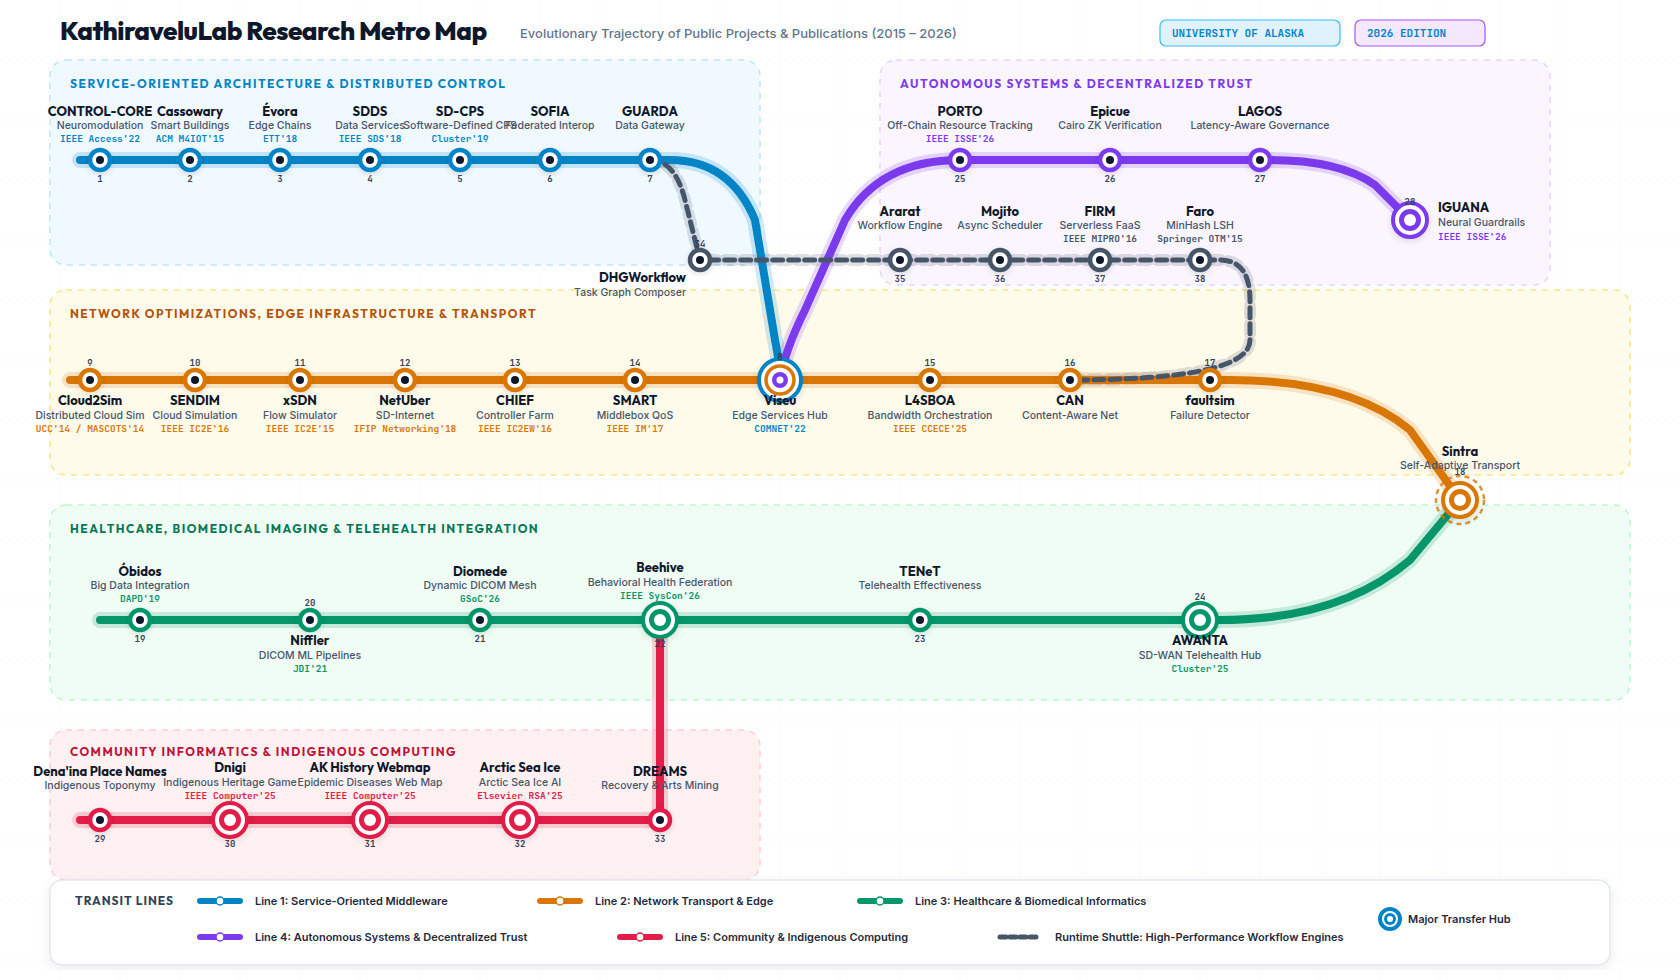
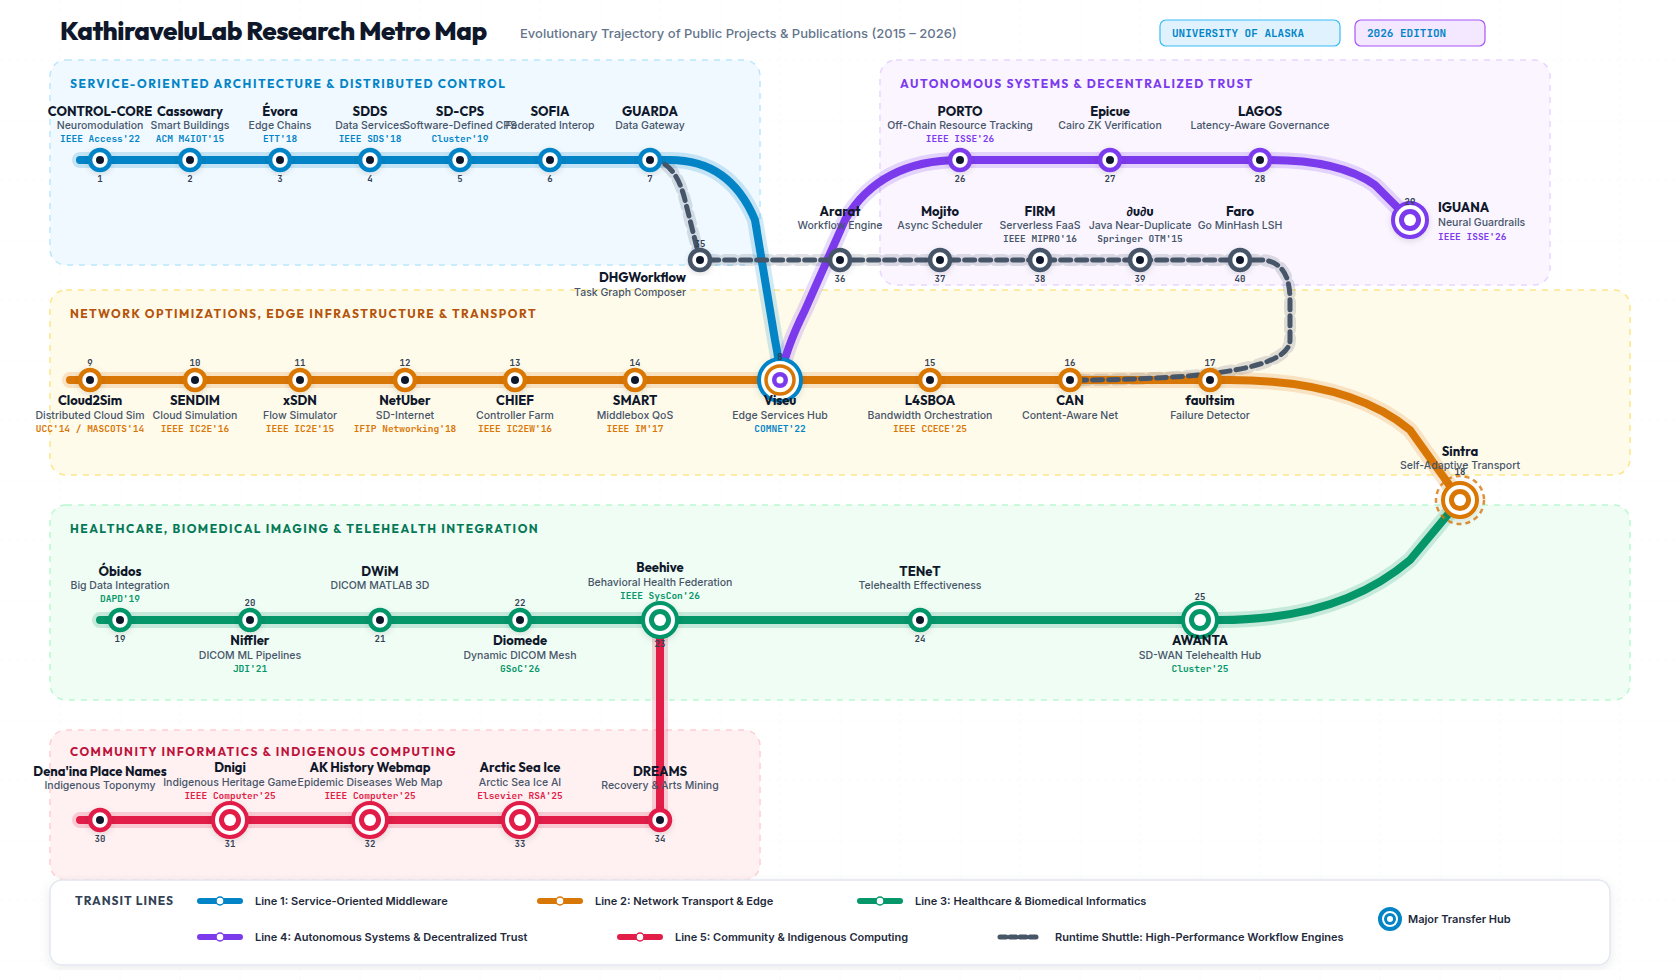
Add DWiM and dudu as standalone stations; expand to 40 stations with full lab repository audit

Changed region(s): [[0.4643, 0.2143, 0.7738, 0.398], [0.1238, 0.5816, 0.3405, 0.6735], [0.031, 0.5816, 0.1238, 0.6735]]

diff --git a/index.html b/index.html
@@ -119,7 +119,7 @@
   <aside class="status-bar" aria-label="Map metadata">
     <div class="status-item">
       <span class="status-dot"></span>
-      <span>38 Stations</span>
+      <span>40 Stations</span>
     </div>
     <div class="status-item">•</div>
     <div class="status-item">

diff --git a/generate-svg.js b/generate-svg.js
@@ -58,6 +58,7 @@ function getStationLayout(station) {
     station.id === "can" || 
     station.id === "faultsim" ||
     station.id === "niffler" ||
+    station.id === "diomede" ||
     station.id === "awanta"
   ) {
     // Labels Below Node

diff --git a/app.js b/app.js
@@ -131,6 +131,7 @@
       station.id === "can" || 
       station.id === "faultsim" ||
       station.id === "niffler" ||
+      station.id === "diomede" ||
       station.id === "awanta"
     ) {
       // Labels Below Node

diff --git a/README.md b/README.md
@@ -8,7 +8,7 @@ An interactive evolutionary transit map tracking how the public research reposit
 
 ## Transit Lines Overview
 
-The metropolitan map organizes **38 flagship research stations** across **5 interconnected transit lines** and **1 high-performance workflow shuttle loop**, reflecting over a decade of research (2014 - 2026):
+The metropolitan map organizes **40 flagship research stations** across **5 interconnected transit lines** and **1 high-performance workflow shuttle loop**, reflecting over a decade of research (2014 - 2026):
 
 | Line | Name | Color | Core Research Focus |
 | :--- | :--- | :---: | :--- |
@@ -24,8 +24,8 @@ The metropolitan map organizes **38 flagship research stations** across **5 inte
 ## Key Transfer Hubs & Interchanges
 
 - **`Viseu` (#8)**: Major triple-interchange bridging **Line 1 (SOA Middleware)**, **Line 2 (Network Optimization)**, and **Line 4 (Autonomous Decentralized Trust)**, connecting edge orchestration directly with Ethereum trust and private off-chain state channels to **`PORTO`**.
-- **`Beehive` (#22)**: Interdisciplinary junction connecting **Line 3 (Clinical Healthcare)** with **Line 5 (Community Informatics)**.
-- **`AWANTA` (#24) & `Sintra` (#18)**: Terminus junction uniting network transport measurements, edge computing, and remote telehealth across satellite/polar links.
+- **`Beehive` (#23)**: Interdisciplinary junction connecting **Line 3 (Clinical Healthcare)** with **Line 5 (Community Informatics)**.
+- **`AWANTA` (#25) & `Sintra` (#18)**: Terminus junction uniting network transport measurements, edge computing, and remote telehealth across satellite/polar links.
 - **`GUARDA` (#7) & `CAN` (#16)**: Fast connection to the **Runtime Shuttle** for high-throughput pipeline dispatching.
 
 ---
@@ -56,31 +56,33 @@ The metropolitan map organizes **38 flagship research stations** across **5 inte
 
 ### Line 3: Healthcare & Biomedical Informatics
 19. **Óbidos** (`Obidos`, `MEDIator`): Hybrid ETL for reproducible biomedical science (*Springer DAPD'19*, *VLDB DMAH'17*, *ACM BigCHat (KDD)'15*).
-20. **Niffler** (`Niffler`, `DWiM`, `MRIQC`): High-throughput DICOM machine learning pipelines (*Springer JDI'21*, *IEEE Access'21*, *IEEE Computer'22*).
-21. **Diomede** (`Diomede`): Dynamic DICOM endpoint routing mesh and telemedicine toolkit across regional cloud PACS nodes.
-22. **Beehive** (`Beehive`): Behavioral health data framework with digitized drawings and photographs (*IEEE SysCon'26*).
-23. **TENeT** (`TENeT`): Telehealth necessity and clinical outcome tracker.
-24. **AWANTA** (`AWANTA`): SD-WAN for remote telehealth measurements (*Springer Cluster'25*, *IEEE SDS'23*).
+20. **Niffler** (`Niffler`, `MRIQC`): High-throughput DICOM machine learning pipelines (*Springer JDI'21*, *IEEE Access'21*, *IEEE Computer'22*).
+21. **DWiM** (`DWiM`): Automated DICOM 3D volume assembly, slice sorting, and isotropic resampling in MATLAB.
+22. **Diomede** (`Diomede`): Dynamic DICOM endpoint routing mesh and telemedicine toolkit across regional cloud PACS nodes.
+23. **Beehive** (`Beehive`): Behavioral health data framework with digitized drawings and photographs (*IEEE SysCon'26*).
+24. **TENeT** (`TENeT`): Telehealth necessity and clinical outcome tracker.
+25. **AWANTA** (`AWANTA`): SD-WAN for remote telehealth measurements (*Springer Cluster'25*, *IEEE SDS'23*).
 
 ### Line 4: Autonomous Systems & Decentralized Trust
-25. **PORTO** (`PORTO`): Private off-chain resource tracking and orchestration (*IEEE ISSE'26*).
-26. **Epicue** (`Epicue`): Zero-knowledge computational integrity with Cairo STARKs in untrusted cloud environments.
-27. **LAGOS** (`LAGOS`): Latency-aware accountable overlay governance in Gleam.
-28. **IGUANA** (`IGUANA`): Integrated guardrails for unbiased, adaptive neural network architectures (*IEEE ISSE'26*).
+26. **PORTO** (`PORTO`): Private off-chain resource tracking and orchestration (*IEEE ISSE'26*).
+27. **Epicue** (`Epicue`): Zero-knowledge computational integrity with Cairo STARKs in untrusted cloud environments.
+28. **LAGOS** (`LAGOS`): Latency-aware accountable overlay governance in Gleam.
+29. **IGUANA** (`IGUANA`): Integrated guardrails for unbiased, adaptive neural network architectures (*IEEE ISSE'26*).
 
 ### Line 5: Community Informatics & Circumpolar Computing
-29. **Dena'ina Place Names** (`denaina-place-names`): Interactive digital atlas honoring Dena'ina Athabascan toponymy.
-30. **Dnigi** (`Dnigi`): Serious game for Indigenous cultural heritage transmission (*IEEE Computer'25*).
-31. **AK History Webmap** (`ak-history-webmap`): Interactive Alaska Native history web map for epidemic disease outbreaks (*IEEE Computer'25*).
-32. **Arctic Sea Ice** (`DIP_Predicting_SIE`): Circumpolar satellite image processing and sea ice extent prediction (*Elsevier Remote Sensing Applications'25*).
-33. **DREAMS** (`DREAMS`): Digitization for recovery and arts mining for societal well-being.
+30. **Dena'ina Place Names** (`denaina-place-names`): Interactive digital atlas honoring Dena'ina Athabascan toponymy.
+31. **Dnigi** (`Dnigi`): Serious game for Indigenous cultural heritage transmission (*IEEE Computer'25*).
+32. **AK History Webmap** (`ak-history-webmap`): Interactive Alaska Native history web map for epidemic disease outbreaks (*IEEE Computer'25*).
+33. **Arctic Sea Ice** (`DIP_Predicting_SIE`): Circumpolar satellite image processing and sea ice extent prediction (*Elsevier Remote Sensing Applications'25*).
+34. **DREAMS** (`DREAMS`): Digitization for recovery and arts mining for societal well-being.
 
 ### Runtime Shuttle: High-Performance Workflow Engines
-34. **DHGWorkflow** (`DHGWorkflow`): Directed hypergraph workflow composer.
-35. **Ararat** (`Ararat`): Hardware-accelerated hypergraph executor in Mojo.
-36. **Mojito** (`Mojito`): Asynchronous task orchestrator in Mojo.
-37. **FIRM** (`FIRM`): Find, Invoke, Return, and Manage low-overhead service composition (*IEEE MIPRO'16*).
-38. **Faro** (`Faro`, `dudu`): Near-duplicate detection for big data (*Springer OTM'15*).
+35. **DHGWorkflow** (`DHGWorkflow`): Directed hypergraph workflow composer.
+36. **Ararat** (`Ararat`): Hardware-accelerated hypergraph executor in Mojo.
+37. **Mojito** (`Mojito`): Asynchronous task orchestrator in Mojo.
+38. **FIRM** (`FIRM`): Find, Invoke, Return, and Manage low-overhead service composition (*IEEE MIPRO'16*).
+39. **∂u∂u** (`dudu`): Multi-tenanted distributed near-duplicate detection framework in Java (*Springer OTM'15*).
+40. **Faro** (`Faro`): High-throughput near-duplicate detection in Go using MinHash and Locality-Sensitive Hashing (LSH).
 
 ## Online Deployment (GitHub Pages)
 
